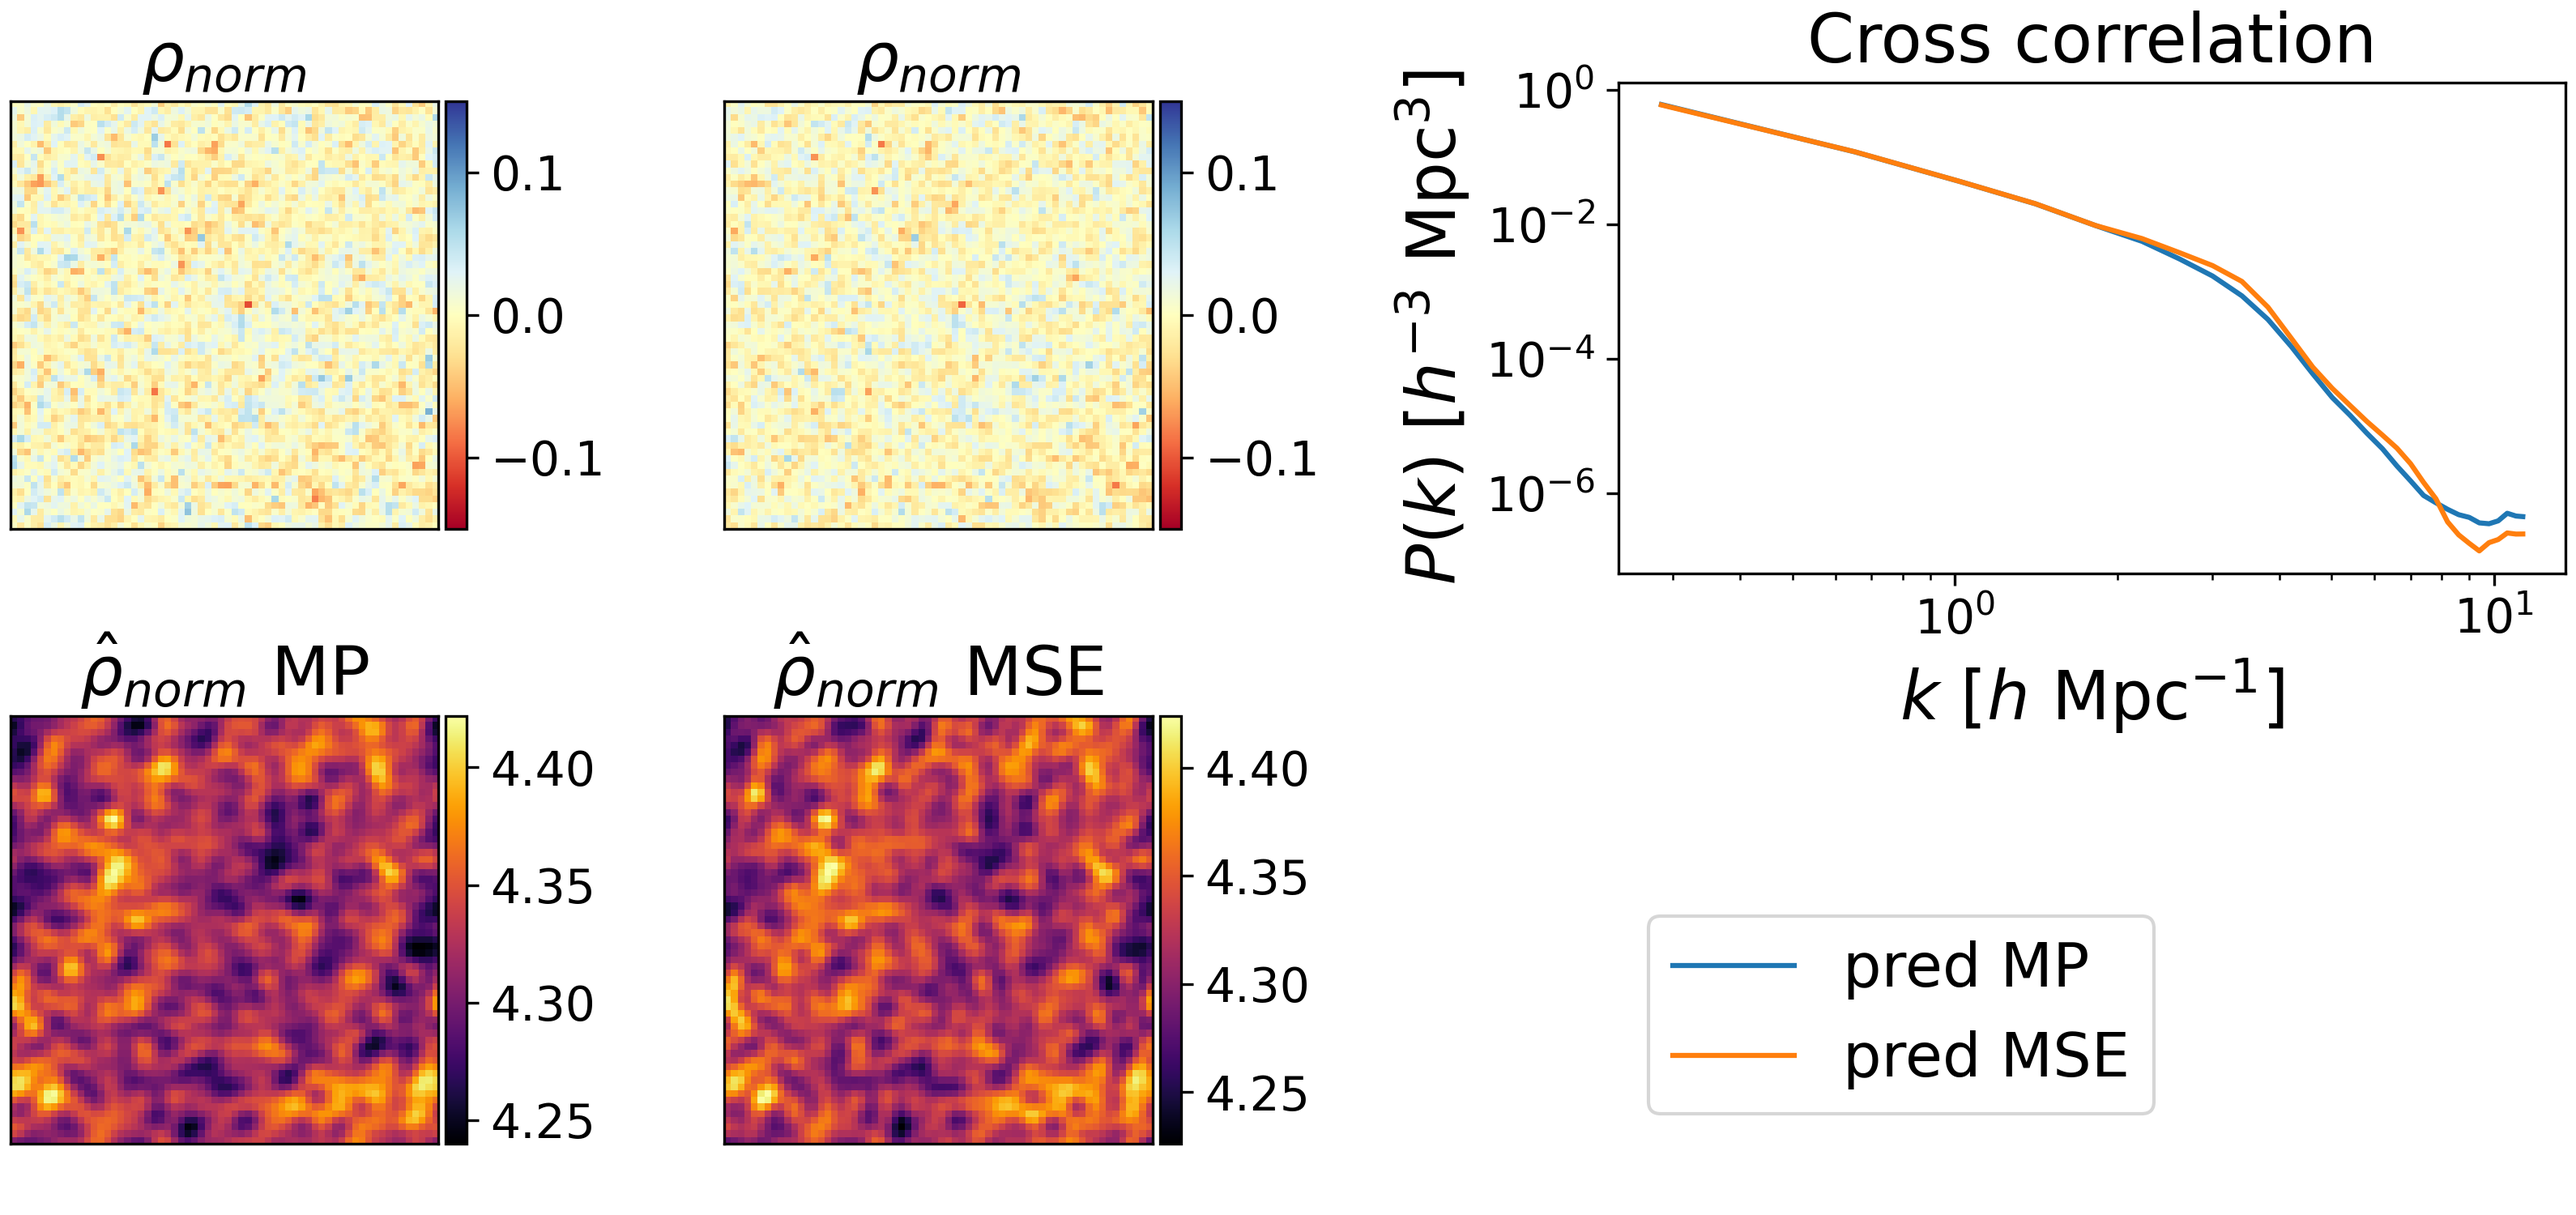
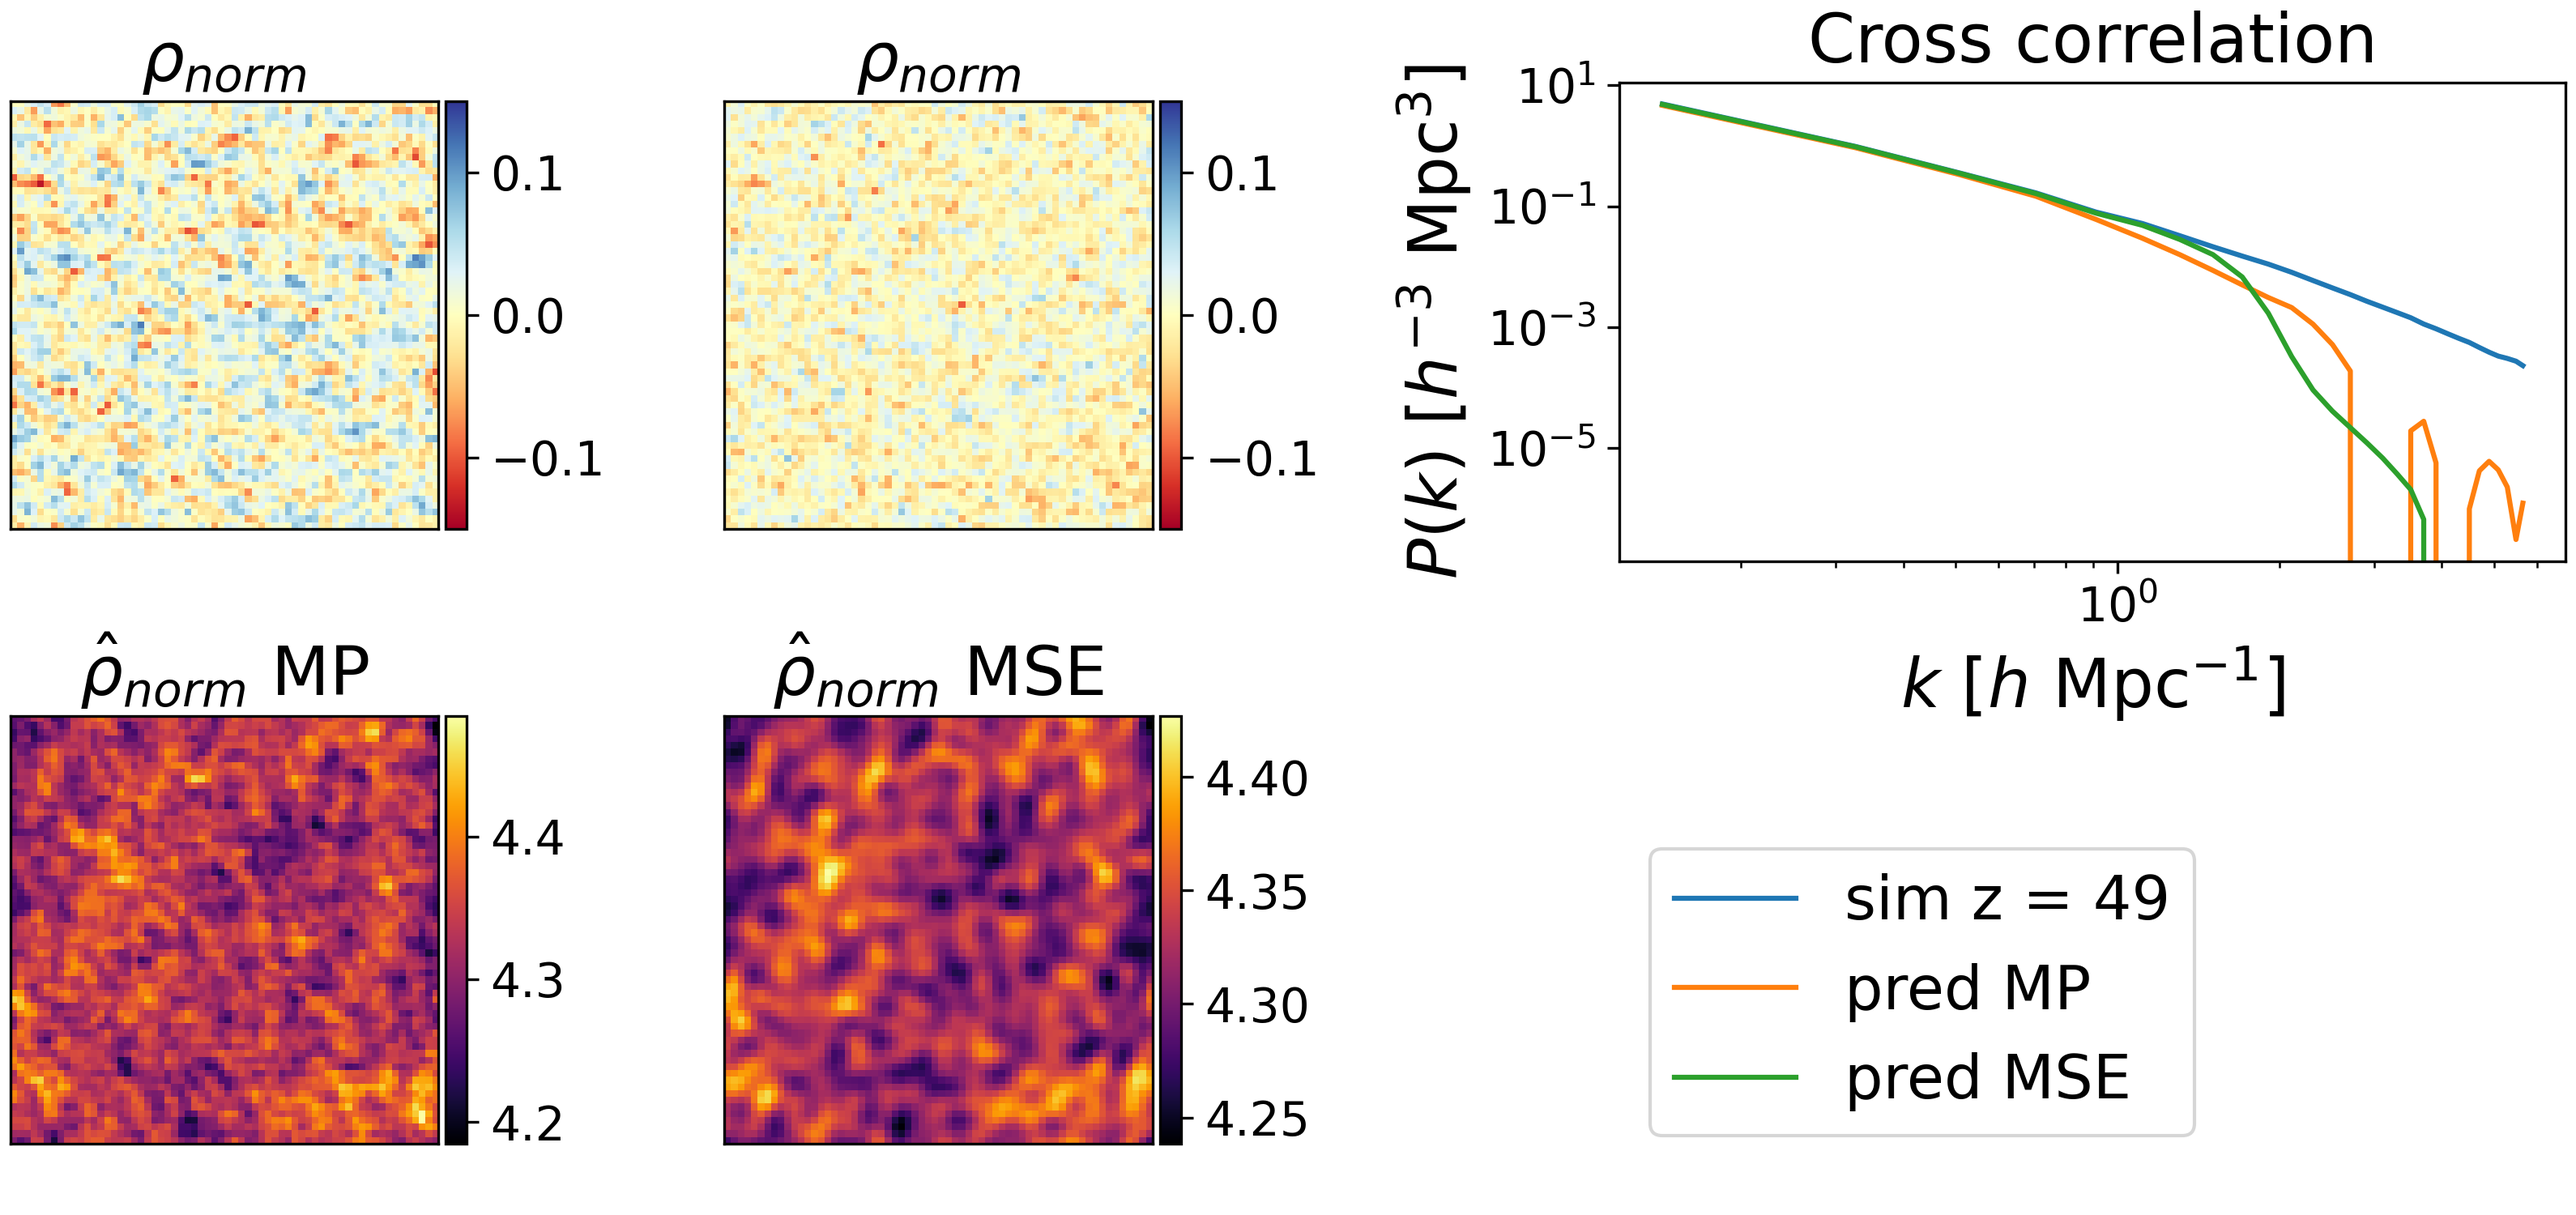
better plot corr

diff --git a/src/plot_compare_correlation_loss.py b/src/plot_compare_correlation_loss.py
@@ -86,6 +86,15 @@ def compare(
     else:
         step = config.file_index_start + config.file_index_stride * (frames - 1)
 
+    p_pred, k_pred = get_power(
+        delta[:, :, :, 0],
+        config.box_size)
+    
+    ax_power.plot(
+        k_pred, p_pred,
+        label=fr'sim z = 49')
+
+
     for idx in range(num_predictions):
 
         print(idx)
@@ -135,7 +144,7 @@ def compare(
         print(config.box_size)
         p_pred, k_pred = get_power(
             delta_pred[:, :, :, 0],
-            config.box_size / 2,
+            config.box_size,
             delta[:, :, :, 0])
         ax_power.plot(
             k_pred, p_pred,
